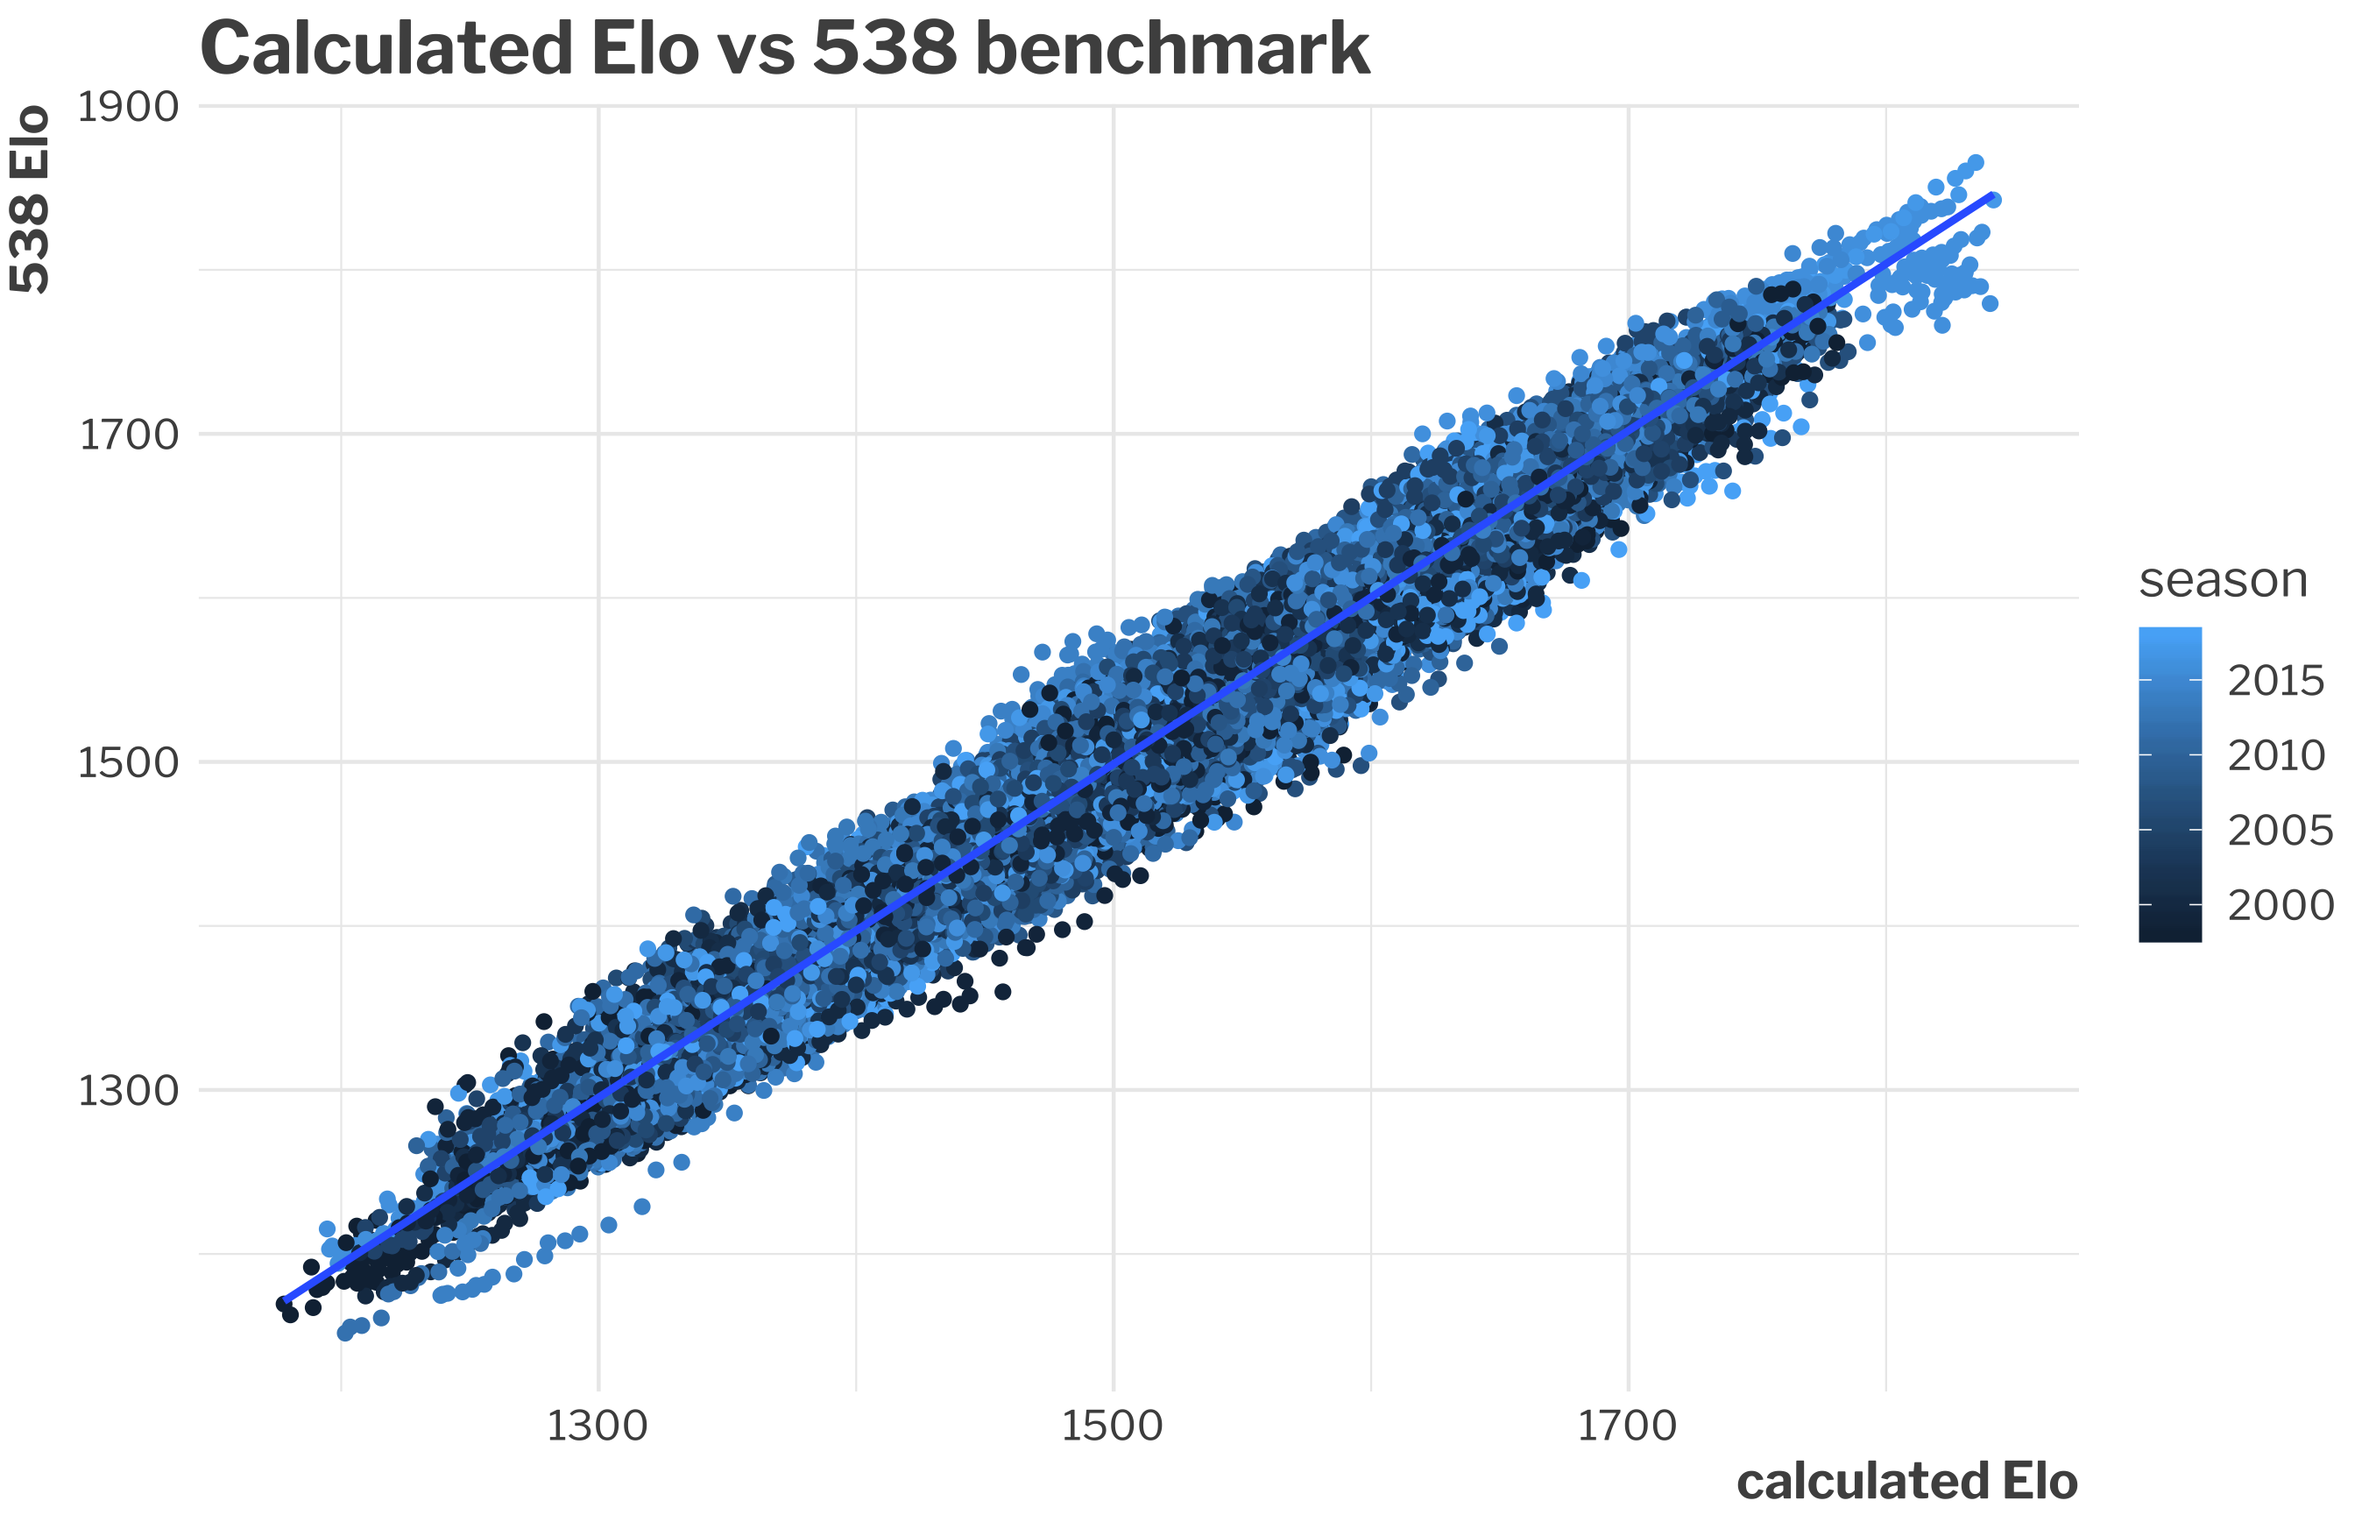
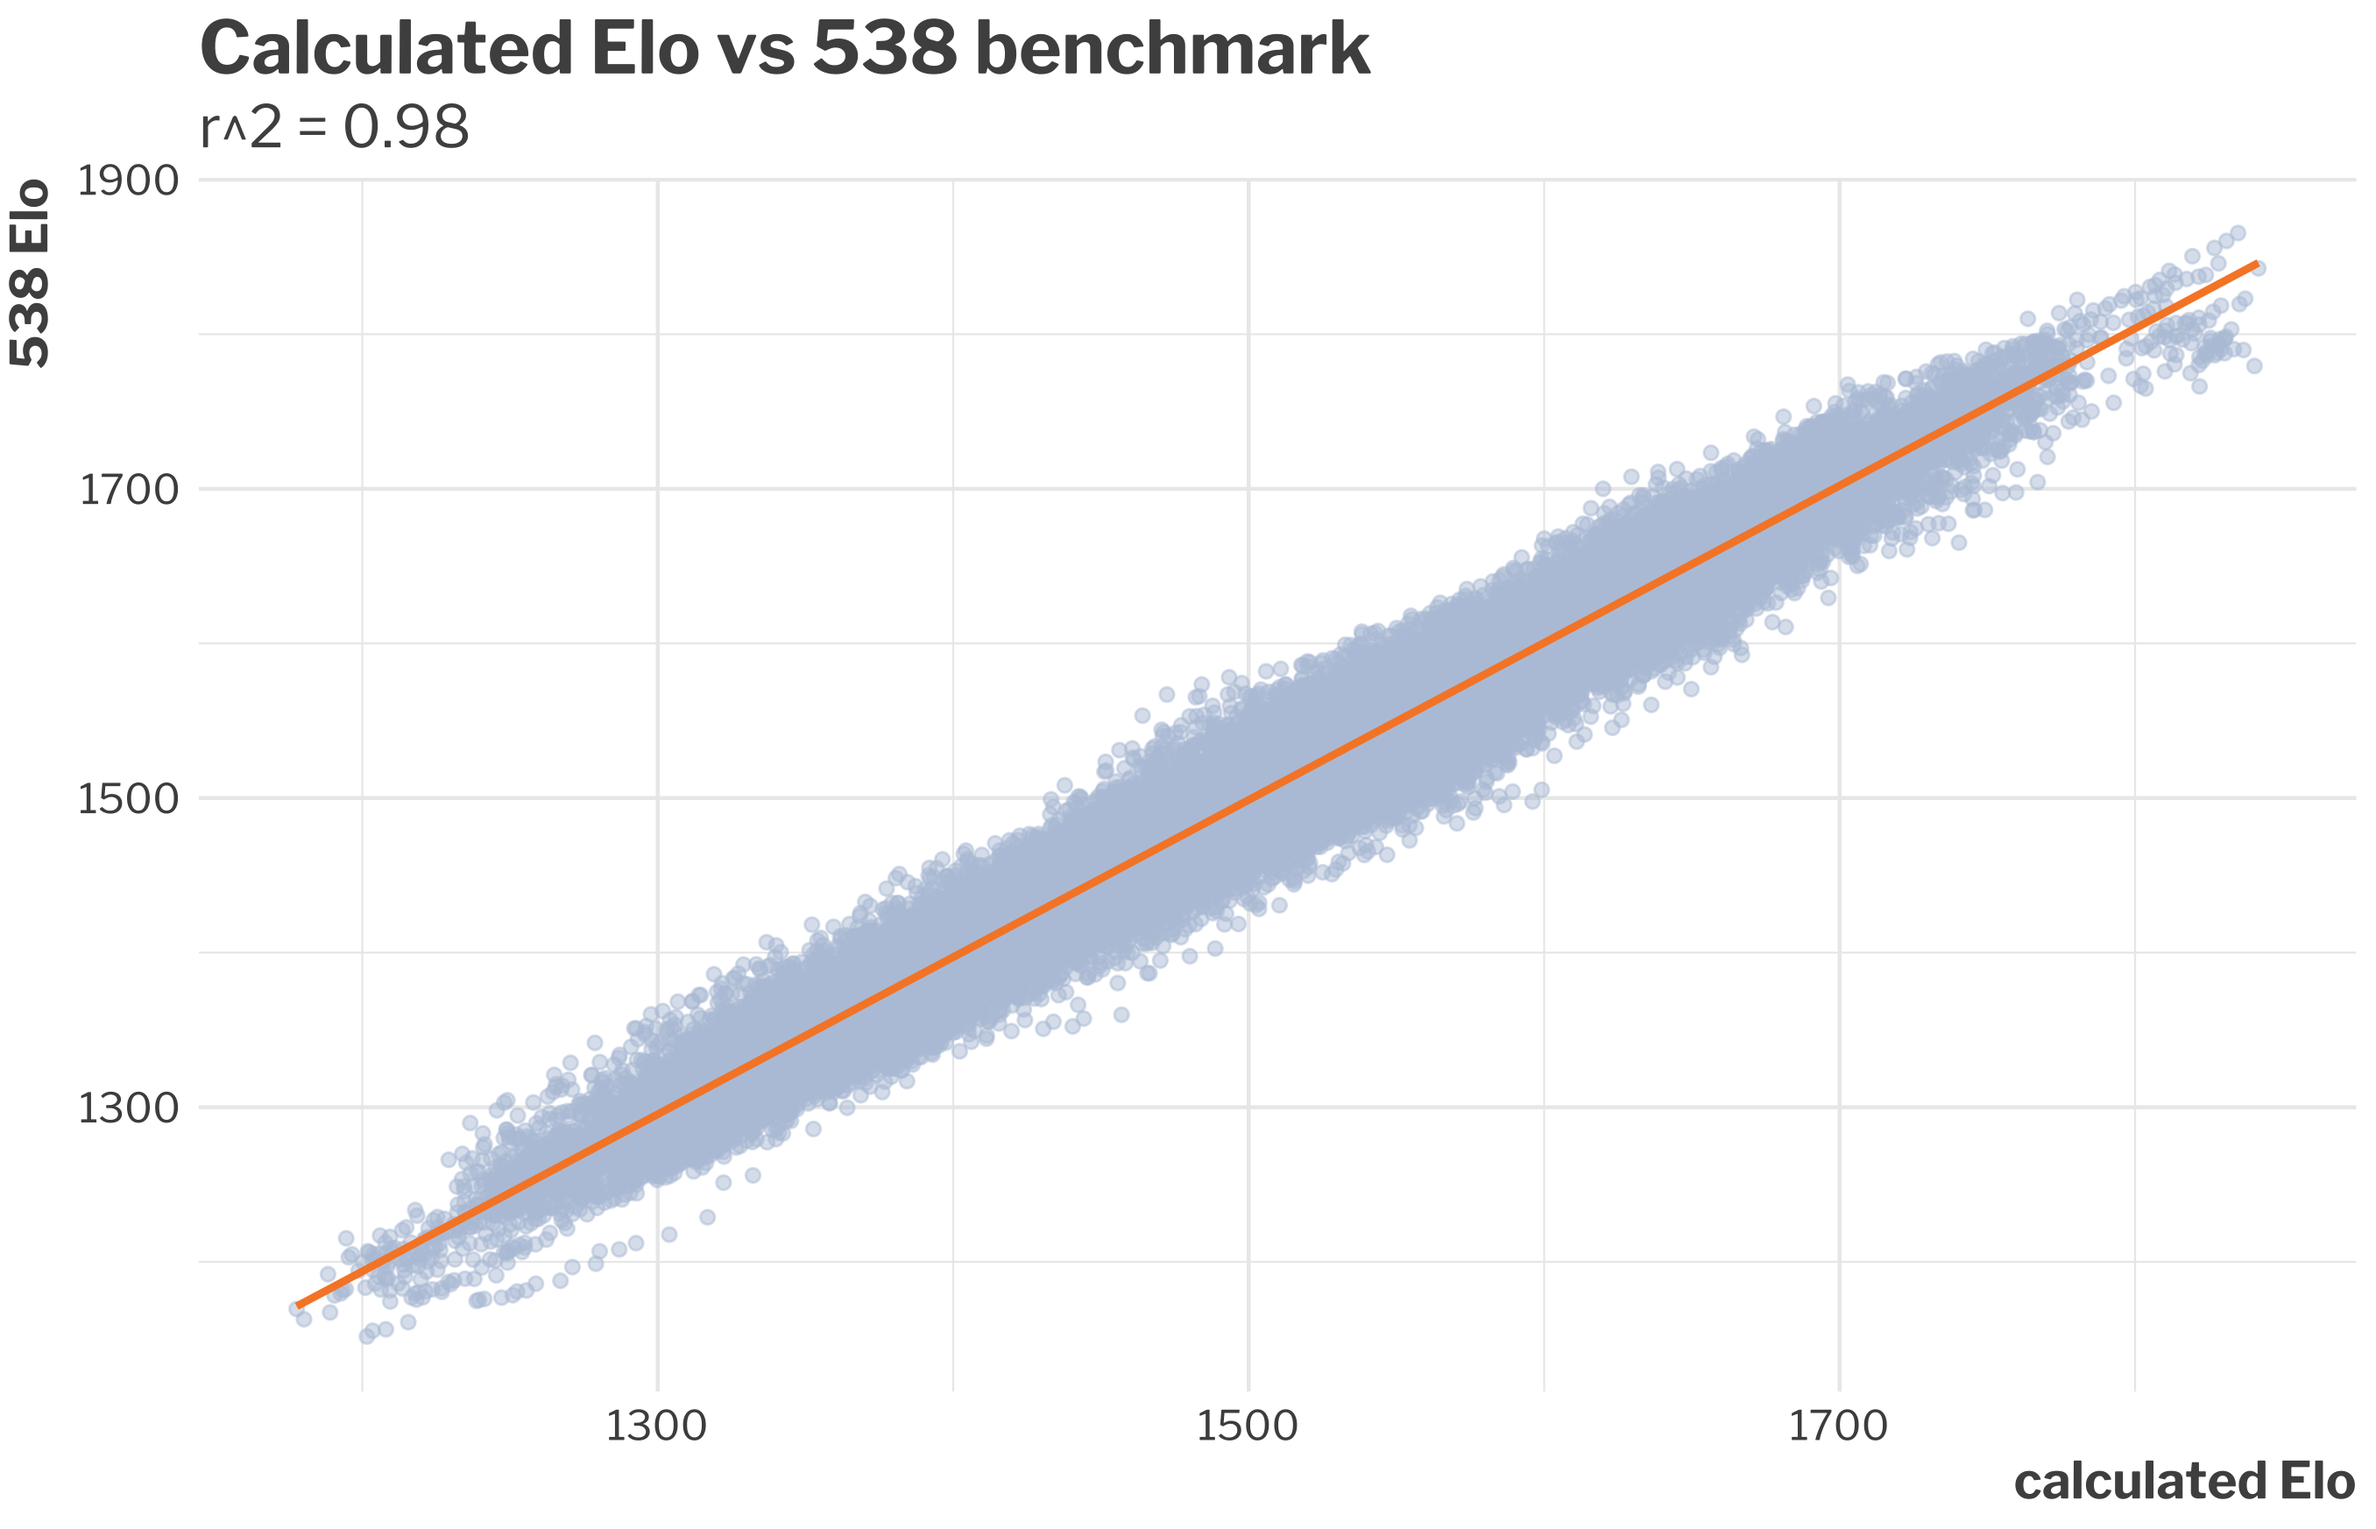
draft of post

diff --git a/content/blog/2018-09-18_nba-elo.html b/content/blog/2018-09-18_nba-elo.html
@@ -19,6 +19,8 @@ draft: true
 <p>The first step was to determine the best empirical measure of a team’s ability. The website <a href="https://www.fivethirtyeight.com">Fivethirtyeight</a> uses Elo for their ratings. They have an excellent primer on Elo overall as well some specific decisions they made in creating their NBA rankings as well. They also publish complete Elo ratings since the start of the NBA, but I wanted to create the ratings mayself (while using their ratings as a comparison benchmark).</p>
 <p>For those not familar, Elo is a measure of relative ability. A rating of 1500 is average; a team gains points when they win and drops points after a loss. The points gained or lost are relative to the gap between the teams: a team will gain a lot of points for beating a team with a much higher rating but may only gain a few for beating a team with a lower rating.</p>
 <p>You can look at how a team’s Elo changes over time, but that has been done a lot. I thought it would be fun to use Elo to see how any two teams would match up on any date. I created a Shiny application that does both; the rest of this post walks through the process of creating that application. In a later post, I’ll take a look at some things we can glean from this data.</p>
+<iframe src="https://jtcies.shinyapps.io/nba-elo/" height="494px" width="800px">
+</iframe>
 </div>
 <div id="creating-the-elo-tables" class="section level2">
 <h2>Creating the Elo tables</h2>
@@ -175,5 +177,9 @@ complete_elo &lt;- running_elo %&gt;%
 </div>
 <div id="how-does-it-compare" class="section level2">
 <h2>How does it compare?</h2>
-<p><img src = "/img/nba-elo/538_compare.png" width="750" height="463.5"></p>
+<p><img src = "/img/nba-elo/538_compare.png"></p>
+<p>The image above shows the comparison my calculated Elo scores and the Fivethirthyeight scores as a benchmark. The r^2 is about .98 so it looks like I was able to match it farily closely. I used 1997 as my base year and eliminated that from most of my analyses; this gave my ratings some time to even out (probably more than I needed actually).</p>
+</div>
+<div id="lessons-learned" class="section level2">
+<h2>Lessons learned</h2>
 </div>

diff --git a/static/css/main.css b/static/css/main.css
@@ -15,8 +15,7 @@ a:hover,
 a:visited,
 a:link
 {
-    text-decoration: underline;
-
+    font-weight: 700;
     color: #526d7a;
 }
 body
@@ -24,12 +23,10 @@ body
     font-family: 'Libre Franklin', 'Libre Baskerville', sans-serif;
     font-size: 20px;
     font-weight: 400;
-
     width: auto;
     height: 100%;
     min-height: 100%;
     margin: 0;
-
     background-color: #ffffff;
 }
 html
@@ -62,9 +59,20 @@ html
 .container
 {
     overflow: auto;
-
-    max-width: 680px;
     padding: 0 15px;
+    max-width: 1000px;
+}
+div.container p,
+h1,
+h2,
+h3,
+h4,
+h5,
+h5 {
+  max-width: 680px;
+  display: block;
+  margin-left: auto;
+  margin-right: auto;
 }
 .content
 {
@@ -76,7 +84,6 @@ div.content
     font-family: 'Libre Baskerville', sans-serif;
     font-size: 18px;
     font-weight: 300;
-
     color: #4f4f4f;
 }
 .copyright
@@ -200,7 +207,6 @@ h3.intro
     font-family: 'Libre Baskerville', sans-serif;
     font-size: 12px;
     font-weight: 200;
-    text-align: center;
     color: #bbb;
 }
 .metalist
@@ -283,4 +289,15 @@ h6 {
   font-family: 'Libre Franklin';
   color: #6b7a8f;
 }
+.img {
+    display: block;
+    margin-left: auto;
+    margin-right: auto;
+    width: 800px !important;
+    height: 494px !important
+}
 
+.iframe {
+  frameborder: 0;
+  outline: none;
+}

diff --git a/content/about/index.md b/content/about/index.md
@@ -7,6 +7,6 @@ title = "About"
 showpagemeta = false
 +++
 
-My work uses a combination of data science and program evaluation to support continuous improvement and data-informed decision-making in non-profits and social service organizations.
+I use a combination of data science and program evaluation to support continuous improvement and data-informed decision-making in non-profits and social service organizations.
 
 All views presented here are my own.
